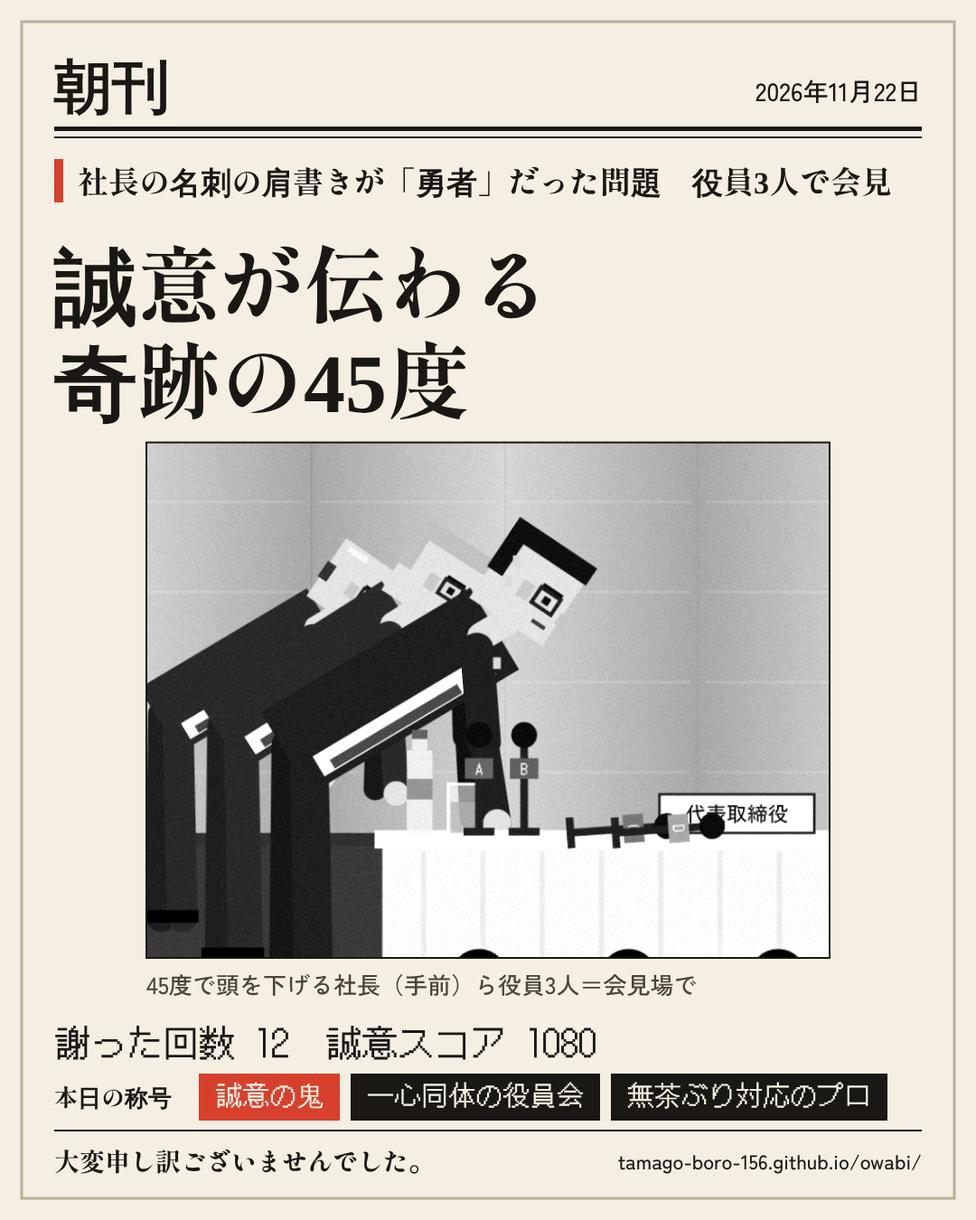
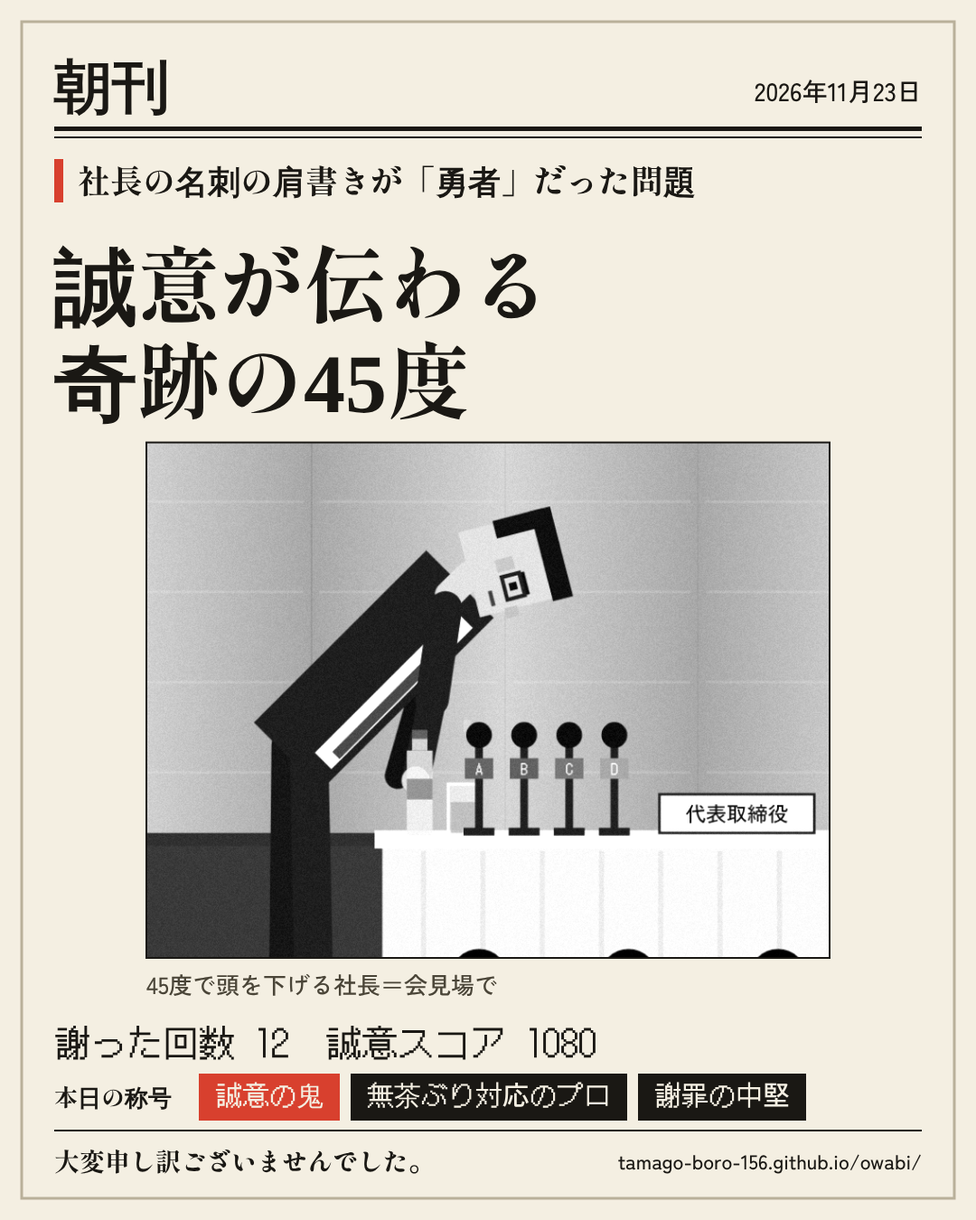
役員3人モードを削除、スクリーンショットとサムネイルをひとりモードで作り直し

diff --git a/index.html b/index.html
@@ -3,7 +3,7 @@
 <head>
 <meta charset="utf-8">
 <meta name="viewport" content="width=device-width, initial-scale=1, viewport-fit=cover">
-<meta name="description" content="グネグネ言うことを聞かない体の頭を指で引っぱり、記者が求める角度でお辞儀を決め続ける。不祥事ガチャ、役員3人モード、写真入りの翌朝の新聞つき。失敗するまで終わらない謝罪会見ゲーム。">
+<meta name="description" content="グネグネ言うことを聞かない体の頭を指で引っぱり、記者が求める角度でお辞儀を決め続ける。不祥事ガチャ、記者の無茶ぶり、写真入りの翌朝の新聞つき。失敗するまで終わらない謝罪会見ゲーム。">
 <meta property="og:title" content="大変申し訳ございませんでした。">
 <meta property="og:description" content="グネグネの体で、記者が求める角度のお辞儀を決め続ける謝罪会見ゲーム。何回謝れるか。">
 <meta property="og:url" content="https://tamago-boro-156.github.io/owabi/">
@@ -81,10 +81,6 @@ kbd { font-family: var(--ui); font-size: 12px; border: 1px solid var(--ink); pad
 .paper h2 { margin: 0; font-family: var(--news); font-size: clamp(22px, 6vw, 30px); line-height: 1.25; letter-spacing: .02em; white-space: pre-line; }
 .paper .lead { font-size: 13px; line-height: 1.7; }
 .paper .kicker { font-family: var(--news); font-size: 14px; font-weight: 800; border-left: 5px solid var(--red); padding-left: 8px; }
-.modes { display: grid; grid-template-columns: 1fr 1fr; gap: 10px; }
-.modes .btn { justify-self: stretch; font-size: 17px; padding: 10px 8px; }
-.modes .btn small { display: block; font-size: 11px; letter-spacing: 0; font-family: var(--ui); opacity: .9; }
-.btn.trio { background: #2b3245; }
 .titles { display: flex; flex-wrap: wrap; gap: 6px; align-items: center; font-size: 12px; }
 .titles b { font-family: var(--news); font-size: 13px; }
 .titles span { background: #1a1814; color: #f4efe2; padding: 3px 9px; font-family: var(--pixel); font-size: 13px; }
@@ -118,10 +114,7 @@ kbd { font-family: var(--ui); font-size: 12px; border: 1px solid var(--ink); pad
       <li>深すぎると机に頭をぶつけます。マイクも倒れます。</li>
     </ol>
     <p class="sub">記者の注文は終わりません。求められた角度で止まれなかったら、そこで会見は打ち切りです。何回謝れるか。何の件で謝るかは、会見のたびに変わります。回数が進むと、マイクのハウリングや隣の役員の体当たりなど、思わぬ邪魔も入ります。</p>
-    <div class="modes">
-      <button class="btn" id="startBtn">ひとりで謝る<small>社長が一人で会見</small></button>
-      <button class="btn trio" id="startTrio">役員3人で謝る<small>3人の角度をそろえる</small></button>
-    </div>
+    <button class="btn" id="startBtn">会見をはじめる</button>
   </div>
 </div>
 
@@ -222,14 +215,8 @@ kbd { font-family: var(--ui); font-size: 12px; border: 1px solid var(--ink); pad
   ];
   // each apology gets a little harder: narrower band, less time, a wobblier body
   const level = n => ({ tol: Math.max(4, 15 - n * 0.6), time: Math.max(7, 16 - n * 0.7), need: Math.min(2.8, 2.0 + n * 0.05), wob: 1 + n * 0.07 });
-  const bestKey = () => st.mode === 'trio' ? 'owabi-best3' : 'owabi-best';
   // 体：腰のバネ k と減衰 d、揺れの大きさ wm がそれぞれ違う
   const newBody = o => Object.assign({ tgt: 0, th: 0, thv: 0, ph: 0, phv: 0, armA: 0, armV: 0, armB: 0, armBV: 0, lastShoulder: null, lastSV: { x: 0, y: 0 }, k: 16, d: 2.0, wm: 1, seed: 0 }, o);
-  // 役員3人：専務はおっとり遅れ、部長は張り切りすぎて行き過ぎる。後ろの列ほど奥に小さく
-  const makeCrew = () => [
-    newBody({ name: '専務', k: 8.5, d: 1.5, wm: 0.85, seed: 2.1, suit: '#3a3a44', hair: '#b9b4ac', off: { dx: -52, dy: -34, s: 0.9 }, col: '#9fd6ff' }),
-    newBody({ name: '部長', k: 27, d: 2.3, wm: 1.35, seed: 4.3, suit: '#43382f', hair: null, off: { dx: -100, dy: -64, s: 0.8 }, col: '#ffb27a' })
-  ];
 
   const st = {
     phase: 'intro', t: 0, q: 0, qt: 0, prog: 0, score: 0, results: [],
@@ -238,7 +225,7 @@ kbd { font-family: var(--ui); font-size: 12px; border: 1px solid var(--ink); pad
     mics: [0, 0, 0, 0], micV: [0, 0, 0, 0], flashes: [], texts: [], say: null, sayT: 0, sweat: [],
     water: { glass: 0, glassV: 0, bottle: 0, bottleV: 0, spilled: false, pour: 0, puddle: 0, stain: 0, drops: [] },
     lastShoulder: null, lastSV: { x: 0, y: 0 }, shake: 0,
-    k: 16, d: 2.0, wm: 1, seed: 0, mode: 'solo', crew: [], nb: null, ev: null, evLog: {}, scandal: SCANDALS[0]
+    k: 16, d: 2.0, wm: 1, seed: 0, nb: null, ev: null, evLog: {}, scandal: SCANDALS[0]
   };
 
   // ---------- audio ----------
@@ -268,32 +255,27 @@ kbd { font-family: var(--ui); font-size: 12px; border: 1px solid var(--ink); pad
   };
 
   // ---------- flow ----------
-  function startGame(mode) {
-    mode = mode === 'trio' ? 'trio' : mode === 'solo' ? 'solo' : st.mode;
-    Object.assign(st, { mode, crew: mode === 'trio' ? makeCrew() : [], nb: null, ev: null, evLog: {}, scandal: pick(SCANDALS), openT: 0, lastShoulder: null, deepT: 0, shallowT: 0, wobT: 0, betrayLog: [], evCleared: 0,
+  function startGame() {
+    Object.assign(st, { nb: null, ev: null, evLog: {}, scandal: pick(SCANDALS), openT: 0, lastShoulder: null, deepT: 0, shallowT: 0, wobT: 0, evCleared: 0,
       tgt: 0, phase: 'open', q: 0, cur: makeQ(0), lv: level(0), qt: 0, prog: 0, score: 0, results: [], th: 0, thv: 0, ph: 0, phv: 0, armA: 0, armV: 0, armB: 0, armBV: 0,
       bonks: 0, qBonks: 0, wobble: 0, mics: [0, 0, 0, 0], micV: [0, 0, 0, 0], flashes: [], texts: [], say: null, sweat: [],
       water: { glass: 0, glassV: 0, bottle: 0, bottleV: 0, spilled: false, pour: 0, puddle: 0, stain: 0, drops: [] } });
     // はじめての会見（モードごと）は、最初の3回をやさしく。妨害も遅めに
-    let played = false; try { played = !!localStorage.getItem(playedKey()); } catch (e) {}
+    let played = false; try { played = !!localStorage.getItem('owabi-played'); } catch (e) {}
     st.easy = !played; st.touched = false; st.photos = {}; st.bestPts = -1; st.card = null;
     $('intro').hidden = true; $('result').hidden = true; reporter(null); hud();
   }
-  const playedKey = () => st.mode === 'trio' ? 'owabi-played3' : 'owabi-played';
-  // 妨害と無茶ぶり。3人のときは役員の裏切りも混ざる
+  // 妨害と無茶ぶり
   const EVENTS = ['faceup', 'howl', 'bump', 'smile', 'blame'];
-  const TRIO_EVENTS = ['stand', 'deep', 'nod'];
-  const tgtOf = b => Math.min(95, st.cur.angle + (b === st ? (st.cur.chiefExtra || 0) : 0));
   function askQ() {
     st.qt = 0; st.prog = 0; st.qBonks = 0; st.wobble = 0;
     st.cur = makeQ(st.q); st.lv = level(st.q);
-    if (st.mode === 'trio') st.lv.tol += 3;   // 3人そろえるぶん、幅は少し広め
     if (st.easy && st.q < 3) {                 // はじめての会見の最初の3回
       st.lv.tol += 8; st.lv.time += 8; st.lv.wob *= 0.5; st.lv.need = 1.5;
       if (st.q === 0) floatText('はじめての会見：最初の3回はやさしめです', 470, 470, '#ffe9a3', 22);
     }
     st.ev = null;
-    if (st.q >= (st.easy ? 6 : 3) && Math.random() < Math.min(0.55, 0.12 + st.q * 0.03)) st.ev = { type: pick(st.mode === 'trio' ? EVENTS.concat(TRIO_EVENTS, TRIO_EVENTS) : EVENTS), at: 1.2 + Math.random() * 3, fired: false };
+    if (st.q >= (st.easy ? 6 : 3) && Math.random() < Math.min(0.55, 0.12 + st.q * 0.03)) st.ev = { type: pick(EVENTS), at: 1.2 + Math.random() * 3, fired: false };
     reporter('「' + st.cur.ask + '」');
   }
   function fireEvent(type) {
@@ -304,29 +286,18 @@ kbd { font-family: var(--ui); font-size: 12px; border: 1px solid var(--ink); pad
       floatText('顔を上げて！', 520, 300, '#ffe9a3', 34);
     } else if (type === 'howl') {
       sfx.howl(); st.shake = 1.2; floatText('キィィーン', 560, 380, '#ffffff', 36);
-      allBodies().forEach(b => { b.thv += (Math.random() < 0.5 ? -1 : 1) * (110 + Math.random() * 60); b.phv -= 160; });
+      st.thv += (Math.random() < 0.5 ? -1 : 1) * (110 + Math.random() * 60); st.phv -= 160;
       reporter(pick(['「マイク！ マイクが！」', '「耳が……」', '「音響さーん！」']));
     } else if (type === 'bump') {
-      if (st.mode === 'trio') { st.crew[0].thv += 230; st.bumpAt = st.t + 0.18; }
-      else st.nb = newBody({ k: 30, d: 2.4, wm: 0.4, seed: 7, suit: '#3b3a40', hair: '#8d8780', off: { dx: -260, dy: -26, s: 0.92 }, t: 0, hit: false });
+      st.nb = newBody({ k: 30, d: 2.4, wm: 0.4, seed: 7, suit: '#3b3a40', hair: '#8d8780', off: { dx: -260, dy: -26, s: 0.92 }, t: 0, hit: false });
     } else if (type === 'smile') {          // 無茶ぶり：笑っていたのでは → 顔を深く伏せ続ける
       st.cur.deepFace = true; st.cur.faceUp = false; st.prog *= 0.3; st.lv.time += 3;
       reporter(pick(['「今、笑っていませんでしたか？」', '「口元がゆるんでましたよ」', '「ニヤッとしましたよね？」']));
       floatText('顔を深く伏せて！', 520, 300, '#ffe9a3', 32);
     } else if (type === 'blame') {          // 無茶ぶり：責任は誰が → 社長がさらに深く
       st.prog *= 0.3; st.lv.time += 3;
-      if (st.mode === 'trio') { st.cur.chiefExtra = 15; floatText('社長だけ、あと15°深く', 520, 300, '#ffe9a3', 30); }
-      else { st.cur.angle = Math.min(90, st.cur.angle + 15); st.cur.name = st.cur.angle + '度'; floatText('あと15°深く', 520, 300, '#ffe9a3', 32); }
+      st.cur.angle = Math.min(90, st.cur.angle + 15); st.cur.name = st.cur.angle + '度'; floatText('あと15°深く', 520, 300, '#ffe9a3', 32);
       reporter(pick(['「今回の責任は誰が取るんですか！」', '「社長の責任ですよね？」', '「責任の重さが角度に出てません！」']));
-    } else {                                // 役員の裏切り（3人のとき）
-      const b = pick(st.crew), dur = 2.6;
-      b.ov = { kind: type, until: st.t + dur }; st.lv.time += dur;
-      const say = {
-        stand: ['「' + b.name + '、なぜ直立してるんですか！」', b.name + 'が直立！', b.name + 'の突然の直立'],
-        deep: ['「' + b.name + 'だけ深すぎる！ 土下座ですか！」', b.name + 'が勝手に最敬礼！', b.name + 'の単独最敬礼'],
-        nod: ['「' + b.name + '、うなずいてる場合ですか！」', b.name + 'がうなずき出した！', b.name + 'の謎のうなずき']
-      }[type];
-      reporter(say[0]); floatText(say[1], 470, 330, '#ff9a8a', 30); st.betrayLog.push(say[2]);
     }
   }
   function bumpFront() {
@@ -334,7 +305,6 @@ kbd { font-family: var(--ui); font-size: 12px; border: 1px solid var(--ink); pad
     const P = bodyPts(); floatText('ドンッ', P.sh.x - 40, P.sh.y - 30, '#ff9a8a', 36);
     reporter(pick(['「押さないで！」', '「仲間割れですか？」', '「後ろの方、落ち着いて！」', '「今の、誰が押したんですか」']));
   }
-  const allBodies = () => [st].concat(st.crew);
   // 1回クリアするごとに、体だけまっすぐに戻す（マイクや水はそのまま）
   function resetStage() { st.tgt = 0; }
   function reporter(txt) { st.say = txt; st.sayT = 0; }
@@ -351,7 +321,7 @@ kbd { font-family: var(--ui); font-size: 12px; border: 1px solid var(--ink); pad
     if (ok && pts > st.bestPts) { st.bestPts = pts; snap('best', Q.angle); }
     if (!ok) snap('fail', Q.angle);
     st.score += pts; st.results.push({ Q, pts, grade, bonks: st.qBonks });
-    st.wobT += st.wobble; if (ok && (Q.faceUp || Q.deepFace || Q.chiefExtra)) st.evCleared++;
+    st.wobT += st.wobble; if (ok && (Q.faceUp || Q.deepFace)) st.evCleared++;
     if (ok) st.q++;
     hud();
     if (!ok) { st.phase = 'done'; reporter('「もう結構です。会見は打ち切ります」'); setTimeout(showResult, 1800); }
@@ -359,12 +329,11 @@ kbd { font-family: var(--ui); font-size: 12px; border: 1px solid var(--ink); pad
   }
   function showResult() {
     st.phase = 'result';
-    try { localStorage.setItem(playedKey(), '1'); } catch (e) {}
+    try { localStorage.setItem('owabi-played', '1'); } catch (e) {}
     const total = Math.round(st.score), n = st.q, b = st.results.reduce((a, r) => a + r.bonks, 0);
     const micsDown = st.mics.filter(m => Math.abs(m) > 1).length;
-    let best = 0; try { best = +localStorage.getItem(bestKey()) || 0; } catch (e) {}
-    const isBest = total > best; if (isBest) { best = total; try { localStorage.setItem(bestKey(), best); } catch (e) {} }
-    const trio = st.mode === 'trio', who = trio ? '役員3人' : '社長';
+    let best = 0; try { best = +localStorage.getItem('owabi-best') || 0; } catch (e) {}
+    const isBest = total > best; if (isBest) { best = total; try { localStorage.setItem('owabi-best', best); } catch (e) {} }
     let head;
     if (n === 0) head = '謝罪会見\n開始直後に決裂';
     else if (n < 3) head = n + '回の謝罪もむなしく\n会見打ち切り';
@@ -372,13 +341,11 @@ kbd { font-family: var(--ui); font-size: 12px; border: 1px solid var(--ink); pad
     else if (n < 15) head = n + '回連続の謝罪\n「もう十分」の声も';
     else if (n < 20) head = '謝罪' + n + '回の新記録\n会場から拍手';
     else head = '謝罪' + n + '回\n「謝り慣れすぎでは」と疑問の声';
-    if (trio && n >= 3) head = head.replace(/^/, '役員3人で');
     // いちばん目立った出来事を見出しにする（なければ回数の見出し）
     const S = newsStats(n, b, micsDown);
     const picks = [
       [b >= 5 ? 9 : 0, '社長、謝罪中に\n頭突き' + b + '連発', '机は沈黙を守る'],
       [micsDown >= 3 ? 8 : 0, '社長、謝罪会見で\nマイク' + micsDown + '本を破壊', ''],
-      [trio && st.betrayLog.length >= 2 ? 8 : 0, '役員の足並みそろわず\n' + (st.betrayLog[0] || '') + 'に騒然', ''],
       [S.perfect >= 5 && S.favAngle ? 7 : 0, '誠意が伝わる\n奇跡の' + S.favAngle + '度', '記者団も思わず拍手'],
       [st.evLog.smile && n >= 3 ? 6 : 0, '「笑っていたのでは」\n会見中に新たな疑惑', ''],
       [S.wobAvg > 2.5 && n >= 3 ? 6 : 0, '「こんにゃくのよう」\n揺れ続ける謝罪に批判', ''],
@@ -390,33 +357,32 @@ kbd { font-family: var(--ui); font-size: 12px; border: 1px solid var(--ink); pad
     if (n >= 20) head = '謝罪' + n + '回\n「謝り慣れすぎでは」と疑問の声';
     else if (picks.length) head = picks[0][1];
     const ph = (picks.length && /頭突き|頭を|マイク/.test(head) && st.photos.bonk) ? ['bonk', st.photos.bonk] : st.photos.best ? ['best', st.photos.best] : st.photos.fail ? ['fail', st.photos.fail] : st.photos.bonk ? ['bonk', st.photos.bonk] : null;
-    const who3 = trio ? '社長（手前）ら役員3人' : '社長';
+    const who3 = '社長';
     const cap = !ph ? '' : ph[0] === 'bonk' ? '机に頭を打ちつける' + who3 : ph[0] === 'best' ? ph[1].angle + '度で頭を下げる' + who3 : '求められた' + ph[1].angle + '度に届かない' + who3;
     if (ph) { $('photo').src = ph[1].c.toDataURL('image/jpeg', 0.85); $('photoCap').textContent = cap + '＝会見場で'; }
     $('photoBox').hidden = !ph;
-    const titles = earnTitles(n, b, micsDown, S, trio);
-    let lead = st.scandal.what + 'をめぐり、' + (trio ? '社長・専務・部長の3人がそろって会見を開き、' : '社長が会見を開き、') + (n ? n + '回にわたって頭を下げた。' : '頭を下げたものの、記者団の求める角度には一度も届かなかった。');
+    const titles = earnTitles(n, b, micsDown, S);
+    let lead = st.scandal.what + 'をめぐり、' + '社長が会見を開き、' + (n ? n + '回にわたって頭を下げた。' : '頭を下げたものの、記者団の求める角度には一度も届かなかった。');
     const ev = st.evLog, evs = [];
     if (ev.howl) evs.push('マイクのハウリング'); if (ev.faceup) evs.push('「顔を上げて」の声');
-    if (ev.bump) evs.push(trio ? '専務の体当たり' : '隣の役員の体当たり');
+    if (ev.bump) evs.push('隣の役員の体当たり');
     if (ev.smile) evs.push('「笑っていたのでは」との追及'); if (ev.blame) evs.push('「責任は誰が取るのか」との追及');
-    st.betrayLog.slice(0, 2).forEach(x => evs.push(x));
     if (evs.length) lead += '会見中は' + evs.slice(0, 3).join('、') + 'にも見舞われた。';
     if (b) lead += '途中、机に頭を' + b + '回打ちつけ、';
     if (micsDown) lead += '報道各社のマイク' + micsDown + '本をなぎ倒した。';
     if (n >= 20) lead += 'あまりに滑らかな謝罪に、記者からは「謝罪に慣れすぎているのでは」「普段から何をしているのか」と別の疑惑が浮上している。';
     lead += st.results.length && st.results[st.results.length - 1].grade === '×' ? '最後は求められた' + st.results[st.results.length - 1].Q.angle + '度で止まれず、会見は打ち切られた。' : '';
-    $('kicker').textContent = st.scandal.what.replace(/件$/, '問題') + (trio ? '　役員3人で会見' : '');
+    $('kicker').textContent = st.scandal.what.replace(/件$/, '問題');
     $('headline').textContent = head; $('lead').textContent = lead;
     const d = new Date(); $('date').textContent = d.getFullYear() + '年' + (d.getMonth() + 1) + '月' + (d.getDate() + 1) + '日';
     $('rows').innerHTML = st.results.slice(-8).map(r => '<span>' + r.Q.name + '（' + r.Q.angle + '°）</span><span>' + (r.bonks ? '頭を打った ×' + r.bonks : '') + '</span><span class="g">' + r.grade + ' ' + r.pts + '</span>').join('');
     $('total').textContent = '誠意スコア ' + total + (isBest ? '（ベスト更新）' : '　ベスト ' + best);
     $('titles').innerHTML = '<b>本日の称号</b>' + titles.slice(0, 3).map(t => '<span>' + t + '</span>').join('');
     // text for X: the headline, the count and the score
-    const text = '【大変申し訳ございませんでした。】\n「' + st.scandal.what + '」の謝罪会見で、' + (trio ? '役員3人で' : '') + n + '回頭を下げました。誠意スコア ' + total + '\n称号：' + titles[0] + '\n\n朝刊見出し「' + head.replace('\n', '　') + '」\n\n#大変申し訳ございませんでした #謝罪会見ゲーム';
+    const text = '【大変申し訳ございませんでした。】\n「' + st.scandal.what + '」の謝罪会見で' + n + '回頭を下げました。誠意スコア ' + total + '\n称号：' + titles[0] + '\n\n朝刊見出し「' + head.replace('\n', '　') + '」\n\n#大変申し訳ございませんでした #謝罪会見ゲーム';
     $('shareText').value = text + '\n' + shareUrl();
     $('xShare').href = 'https://x.com/intent/post?text=' + encodeURIComponent(text) + '&url=' + encodeURIComponent(shareUrl());
-    st.share = { text, head, kicker: $('kicker').textContent, photo: ph && ph[1].c, cap, total, n, titles, trio };
+    st.share = { text, head, kicker: $('kicker').textContent, photo: ph && ph[1].c, cap, total, n, titles };
     st.card = null; buildCard().catch(() => {});
     $('result').hidden = false; $('againBtn').focus();
   }
@@ -472,14 +438,12 @@ kbd { font-family: var(--ui); font-size: 12px; border: 1px solid var(--ink); pad
     return { perfect: perfect.length, favAngle, wobAvg: st.results.length ? st.wobT / st.results.length : 0, ok: ok.length };
   }
   // 称号：当てはまるものを、珍しい順に最大3つ
-  function earnTitles(n, b, micsDown, S, trio) {
+  function earnTitles(n, b, micsDown, S) {
     const t = [];
     if (n >= 25) t.push('謝罪の神');
     if (micsDown >= 4) t.push('マイク全滅王'); else if (micsDown >= 2) t.push('マイク破壊王');
     if (b >= 5) t.push('頭突き名人');
     if (S.perfect >= 5) t.push('誠意の鬼');
-    if (trio && st.betrayLog.length >= 2) t.push('統率ゼロの役員会');
-    if (trio && n >= 10) t.push('一心同体の役員会');
     if (st.evCleared >= 2) t.push('無茶ぶり対応のプロ');
     if (S.wobAvg > 2.5 && n >= 3) t.push('こんにゃく社長');
     if (st.water.spilled) t.push('水難の相');
@@ -497,8 +461,7 @@ kbd { font-family: var(--ui); font-size: 12px; border: 1px solid var(--ink); pad
   cv.addEventListener('pointerdown', e => { audio(); st.touched = true; cv.setPointerCapture(e.pointerId); st.fingerId = e.pointerId; st.finger = toV(e.clientX, e.clientY); });
   cv.addEventListener('pointermove', e => { if (st.fingerId === e.pointerId) st.finger = toV(e.clientX, e.clientY); });
   ['pointerup', 'pointercancel'].forEach(ev => cv.addEventListener(ev, e => { if (st.fingerId === e.pointerId) { st.finger = null; st.fingerId = null; } }));
-  $('startBtn').addEventListener('click', () => { audio(); startGame('solo'); });
-  $('startTrio').addEventListener('click', () => { audio(); startGame('trio'); });
+  $('startBtn').addEventListener('click', () => { audio(); startGame(); });
   $('againBtn').addEventListener('click', startGame);
   function renderSound() { $('sndBtn').setAttribute('aria-pressed', soundOn); $('sndV').textContent = soundOn ? 'ON' : 'OFF'; }
   $('sndBtn').addEventListener('click', () => { soundOn = !soundOn; try { localStorage.setItem('owabi-sound', soundOn ? 'on' : 'off'); } catch (e) {} if (!soundOn && ac) ac.suspend(); else audio(); renderSound(); });
@@ -549,12 +512,6 @@ kbd { font-family: var(--ui); font-size: 12px; border: 1px solid var(--ink); pad
     }
     const wob = st.lv ? st.lv.wob : 1;
     stepBody(st, dt, st.tgt, phTarget, wob);
-    st.crew.forEach(b => {   // 3人とも同じ指の動きに、それぞれの体でついてくる。裏切り中の役員は勝手に動く
-      const ov = b.ov && st.t < b.ov.until ? b.ov : null;
-      const tg = !ov ? st.tgt : ov.kind === 'stand' ? -4 : ov.kind === 'deep' ? 88 : Math.max(0, st.tgt) + 22 * Math.sin(st.t * 8);
-      stepBody(b, dt, tg, ov && ov.kind === 'stand' ? -12 : phTarget, wob);
-    });
-    if (st.bumpAt && st.t >= st.bumpAt) { st.bumpAt = 0; bumpFront(); }
     if (st.nb) {   // 隣の役員が入ってきて、勝手に深く頭を下げ、ぶつかって帰っていく
       const nb = st.nb; nb.t += dt;
       nb.off.dx = nb.t < 0.7 ? -260 + 200 * ease(nb.t / 0.7) : nb.t > 2.5 ? -60 - 220 * ease(Math.min(1, (nb.t - 2.5) / 0.7)) : -60;
@@ -598,22 +555,16 @@ kbd { font-family: var(--ui); font-size: 12px; border: 1px solid var(--ink); pad
     st.qt += dt;
     const Q = st.cur, L = st.lv, TOL = L.tol;
     if (st.ev && !st.ev.fired && st.qt >= st.ev.at) { st.ev.fired = true; fireEvent(st.ev.type); }
-    // 3人のときは、いちばんずれている人で判定する
-    const bodies = allBodies();
-    const faceOk = b => Q.faceUp ? b.ph < 5 : Q.deepFace ? b.ph > 30 : b.ph > 10;
-    const worst = bodies.reduce((w, b) => Math.abs(b.th - tgtOf(b)) > Math.abs(w.th - tgtOf(w)) ? b : w, st);
-    const off = worst.th - tgtOf(worst), still = bodies.every(b => Math.abs(b.thv) < 60), down = bodies.every(faceOk);
-    const inBand = bodies.every(b => Math.abs(b.th - tgtOf(b)) < TOL) && down && still;
+    const off = st.th - Q.angle, still = Math.abs(st.thv) < 60, down = Q.faceUp ? st.ph < 5 : Q.deepFace ? st.ph > 30 : st.ph > 10;
+    const inBand = Math.abs(off) < TOL && down && still;
     if (off > TOL) st.deepT += dt; else if (off < -TOL) st.shallowT += dt;
     if (inBand) st.prog += dt; else st.prog = Math.max(0, st.prog - dt * 0.3);
     if (!still) st.wobble += dt;
-    const nm = worst !== st && worst.name ? worst.name + '、' : '';
     // the press reacts
     if (!inBand && Math.random() < dt * 2.2) { st.flashes.push({ x: (PORTRAIT ? 440 : 680) + Math.random() * 300, y: (PORTRAIT ? 560 : 500) + Math.random() * 150, t: 0 }); sfx.shutter(); }
     if (st.sayT > 2.2) {
       if (Q.deepFace && !down) reporter(pick(['「まだ笑ってますよね？」', '「もっと顔を伏せて！」', '「口元が見えてますよ」']));
       else if (Q.faceUp && !down) reporter(pick(['「顔を上げてと言ってるでしょう！」', '「顔！ 顔を上げて！」', '「下を向かない！」']));
-      else if (nm && Math.abs(off) > TOL) reporter(off < 0 ? pick(['「' + nm + '浅い！」', '「' + nm + 'もっと下げて！」', '「' + nm + 'やる気あります？」']) : pick(['「' + nm + '深すぎ！」', '「' + nm + '一人だけ深い！」', '「' + nm + '張り切りすぎ！」']));
       else if (Math.random() < 0.22) reporter(pick(st.scandal.lines));
       else if (Math.abs(st.thv) > 90) reporter(pick(['「グラグラしてますよ！」', '「ふざけてるんですか？」', '「落ち着いて！」', '「骨、ありますか？」', '「揺れで反省を表現してるんですか？」', '「酔ってます？」', '「こんにゃくみたいですよ」']));
       else if (off < -TOL) reporter(pick(['「浅い！」', '「誠意が見えない！」', '「それは会釈ですか？」', '「首しか動いてませんよ」', '「もっと！」', '「まだ立ってますよね？」', '「それ、ただのうなずきでは」']));
@@ -713,7 +664,6 @@ kbd { font-family: var(--ui); font-size: 12px; border: 1px solid var(--ink); pad
     } else st.sweat.forEach(s => { ctx.fillStyle = '#9fd6ff'; ctx.fillRect(s.x, s.y, 6, 9); });
   }
   function drawMen() {
-    st.crew.slice().reverse().forEach(b => drawMan(b));
     if (st.nb) drawMan(st.nb);
     drawMan(st);
   }
@@ -819,23 +769,15 @@ kbd { font-family: var(--ui); font-size: 12px; border: 1px solid var(--ink); pad
     ctx.beginPath(); ctx.arc(0, 0, r, -Math.PI / 2, 0); ctx.stroke();
     ctx.strokeStyle = 'rgba(79,191,122,.75)'; ctx.lineWidth = 12;
     ctx.beginPath(); ctx.arc(0, 0, r, -Math.PI / 2 + (Q.angle - TOL) * D2R, -Math.PI / 2 + (Q.angle + TOL) * D2R); ctx.stroke();
-    if (Q.chiefExtra) { const c = tgtOf(st); ctx.strokeStyle = 'rgba(255,233,163,.85)'; ctx.lineWidth = 6; ctx.beginPath(); ctx.arc(0, 0, r - 12, -Math.PI / 2 + (c - TOL) * D2R, -Math.PI / 2 + (c + TOL) * D2R); ctx.stroke(); }
     ctx.strokeStyle = '#ffffff'; ctx.lineWidth = 3;
     const a = -Math.PI / 2 + st.th * D2R; ctx.beginPath(); ctx.moveTo(Math.cos(a) * (r - 18), Math.sin(a) * (r - 18)); ctx.lineTo(Math.cos(a) * (r + 18), Math.sin(a) * (r + 18)); ctx.stroke();
-    st.crew.forEach((b, i) => {
-      const a2 = -Math.PI / 2 + b.th * D2R, r2 = r + 26 + i * 16; ctx.strokeStyle = b.col; ctx.lineWidth = 3;
-      ctx.beginPath(); ctx.moveTo(Math.cos(a2) * (r2 - 8), Math.sin(a2) * (r2 - 8)); ctx.lineTo(Math.cos(a2) * (r2 + 8), Math.sin(a2) * (r2 + 8)); ctx.stroke();
-    });
     ctx.restore();
     ctx.font = '700 22px ' + UI; ctx.fillStyle = '#ffffff'; ctx.textAlign = 'left'; ctx.textBaseline = 'alphabetic';
     const qx = PORTRAIT ? VIEW.x + 20 : 60, qy = PORTRAIT ? VIEW.y + 120 : 60;
     ctx.font = (PORTRAIT ? '900 34px ' : '700 22px ') + UI;
     if (st.easy && st.q < 3) { ctx.save(); ctx.font = '700 18px ' + UI; ctx.fillStyle = '#ffe9a3'; ctx.fillText('やさしめ', qx, qy - 40); ctx.restore(); }
-    ctx.fillText(Q.name + '　' + Q.angle + '°' + (Q.faceUp ? '　顔を上げて' : Q.deepFace ? '　顔を深く' : Q.chiefExtra ? '　社長は' + tgtOf(st) + '°' : ''), qx, qy);
-    ctx.font = '16px ' + PX; ctx.fillStyle = '#ffe9a3'; ctx.font = (PORTRAIT ? '22px ' : '16px ') + PX; if (st.mode === 'trio') {
-      ctx.font = '20px ' + PX; let x = qx;
-      allBodies().forEach(b => { const t = (b.name || '社長') + ' ' + Math.round(b.th) + '°  '; ctx.lineWidth = 5; ctx.strokeStyle = 'rgba(31,29,36,.85)'; ctx.strokeText(t, x, qy + 38); ctx.fillStyle = b.col || '#ffffff'; ctx.fillText(t, x, qy + 38); x += ctx.measureText(t).width; });
-    } else ctx.fillText('いま ' + Math.round(st.th) + '°' + (st.ph > 12 ? '　顔：伏せている' : '　顔：上がっている'), qx, qy + (PORTRAIT ? 38 : 28));
+    ctx.fillText(Q.name + '　' + Q.angle + '°' + (Q.faceUp ? '　顔を上げて' : Q.deepFace ? '　顔を深く' : ''), qx, qy);
+    ctx.font = '16px ' + PX; ctx.fillStyle = '#ffe9a3'; ctx.font = (PORTRAIT ? '22px ' : '16px ') + PX; ctx.fillText('いま ' + Math.round(st.th) + '°' + (st.ph > 12 ? '　顔：伏せている' : '　顔：上がっている'), qx, qy + (PORTRAIT ? 38 : 28));
     // sincerity bar
     const bx = qx, by = qy + (PORTRAIT ? 56 : 44), bw = PORTRAIT ? 490 : 240;
     ctx.fillStyle = 'rgba(0,0,0,.45)'; ctx.fillRect(bx, by, bw, 14);
@@ -850,7 +792,7 @@ kbd { font-family: var(--ui); font-size: 12px; border: 1px solid var(--ink); pad
     ctx.fillStyle = '#fbf8f1'; ctx.fillRect(x0, y0, w, 210); ctx.strokeStyle = '#000'; ctx.lineWidth = 4; ctx.strokeRect(x0, y0, w, 210);
     ctx.fillStyle = '#d8402e'; ctx.fillRect(x0, y0, w, 44);
     ctx.fillStyle = '#fff'; ctx.font = '700 22px ' + PX; ctx.textAlign = 'center'; ctx.textBaseline = 'middle';
-    ctx.fillText(st.mode === 'trio' ? '本日の謝罪会見（役員3人）' : '本日の謝罪会見', x0 + w / 2, y0 + 23);
+    ctx.fillText('本日の謝罪会見', x0 + w / 2, y0 + 23);
     ctx.fillStyle = '#1f1d24'; ctx.font = '800 32px "Shippori Mincho", serif';
     const lines = []; let cur = '';
     for (const ch of st.scandal.what + 'について') { if (ctx.measureText(cur + ch).width > w - 40) { lines.push(cur); cur = ch; } else cur += ch; }
@@ -861,7 +803,7 @@ kbd { font-family: var(--ui); font-size: 12px; border: 1px solid var(--ink); pad
   // はじめての会見の1回目：指をどこへ引っぱればいいかの見本（まだ触っていないときだけ）
   function drawHint() {
     if (!st.easy || st.q !== 0 || st.phase !== 'play' || st.touched || st.finger) return;
-    const P = bodyPts(), a = tgtOf(st) * D2R, d = TORSO + NECK + HEAD_R - 45;
+    const P = bodyPts(), a = st.cur.angle * D2R, d = TORSO + NECK + HEAD_R - 45;
     const tx = HIP.x + Math.sin(a) * d, ty = HIP.y - Math.cos(a) * d;
     const u = (st.t % 2.2) / 1.6, k = Math.min(1, u), e = k * k * (3 - 2 * k);
     const fx = P.hd.x + (tx - P.hd.x) * e, fy = P.hd.y + (ty - P.hd.y) * e;

diff --git a/README.md b/README.md
@@ -24,15 +24,13 @@
 ## 特徴
 
 - **グネグネの体**：腰はバネのように行き過ぎては戻り、首は腰の動きにつられて振れます。
-- **はじめての会見はやさしめ**：はじめて遊ぶとき（ひとり・3人それぞれ）は、最初の3回の注文の幅と時間に余裕があり、体の揺れも小さくなります。1回目は指の動かし方の見本も出ます。
+- **はじめての会見はやさしめ**：はじめて遊ぶときは、最初の3回の注文の幅と時間に余裕があり、体の揺れも小さくなります。1回目は指の動かし方の見本も出ます。
 - **だんだん厳しくなる注文**：成功するたびに、許される角度の幅（最初は ±15°）が狭まり、制限時間が短くなり、体の揺れが大きくなります。
 - **不祥事ガチャ**：「社長が会議中に寝ていた件」「取扱説明書が全部ポエムだった件」など、何の件で謝るかは会見のたびにランダムで決まります。記者のツッコミと翌朝の新聞も、その件に合わせて変わります。
-- **会見の妨害と無茶ぶり**：4回目の謝罪からは、「顔を上げてください！」の逆注文、「今、笑っていませんでしたか？」（顔を深く伏せ続ける）、「責任は誰が取るんですか！」（社長だけさらに深く）、マイクのハウリング、隣の役員の体当たりが、ときどき起きます。
-- **役員の裏切り**：3人のときは、専務や部長が突然直立したり、勝手に最敬礼したり、うなずき出したりします。
+- **会見の妨害と無茶ぶり**：4回目の謝罪からは、「顔を上げてください！」の逆注文、「今、笑っていませんでしたか？」（顔を深く伏せ続ける）、「責任は誰が取るんですか！」（さらに15°深く）、マイクのハウリング、隣の役員の体当たりが、ときどき起きます。
 - **1回ごとの仕切り直し**：お辞儀が決まるたびに体はまっすぐ起き上がってから、次の注文が始まります。
-- **役員3人で謝る**：社長・専務・部長の3人が並び、同じ指の動きにそれぞれの体でついてきます。おっとり遅れる専務、張り切って行き過ぎる部長の角度もそろえる必要があります。
 - **記者のツッコミ**：角度や揺れ方に応じて「それは会釈ですか？」「床に何か落ちてます？」「こんにゃくみたいですよ」などの声が飛びます。
-- **翌朝の新聞**：会見でいちばん目立った出来事が見出しになります。「社長、謝罪中に頭突き6連発」「誠意が伝わる奇跡の45度」「役員の足並みそろわず」など。20回を超えると「謝り慣れすぎでは」と別の疑惑が浮上します。
+- **翌朝の新聞**：会見でいちばん目立った出来事が見出しになります。「社長、謝罪中に頭突き6連発」「誠意が伝わる奇跡の45度」「深すぎて逆に怪しい」など。20回を超えると「謝り慣れすぎでは」と別の疑惑が浮上します。
 - **本日の称号**：「マイク破壊王」「誠意の鬼」「こんにゃく社長」「反省ゼロ」など、会見の内容に応じて最大3つの称号がつき、X の投稿にも入ります。
 - **新聞の写真と画像での共有**：いちばん良い角度で止まった瞬間や、頭を打った瞬間を白黒の報道写真として新聞に載せます。新聞は1枚の画像になり、スマホでは「画像つきで投稿」からそのまま X に投稿できます。
 
